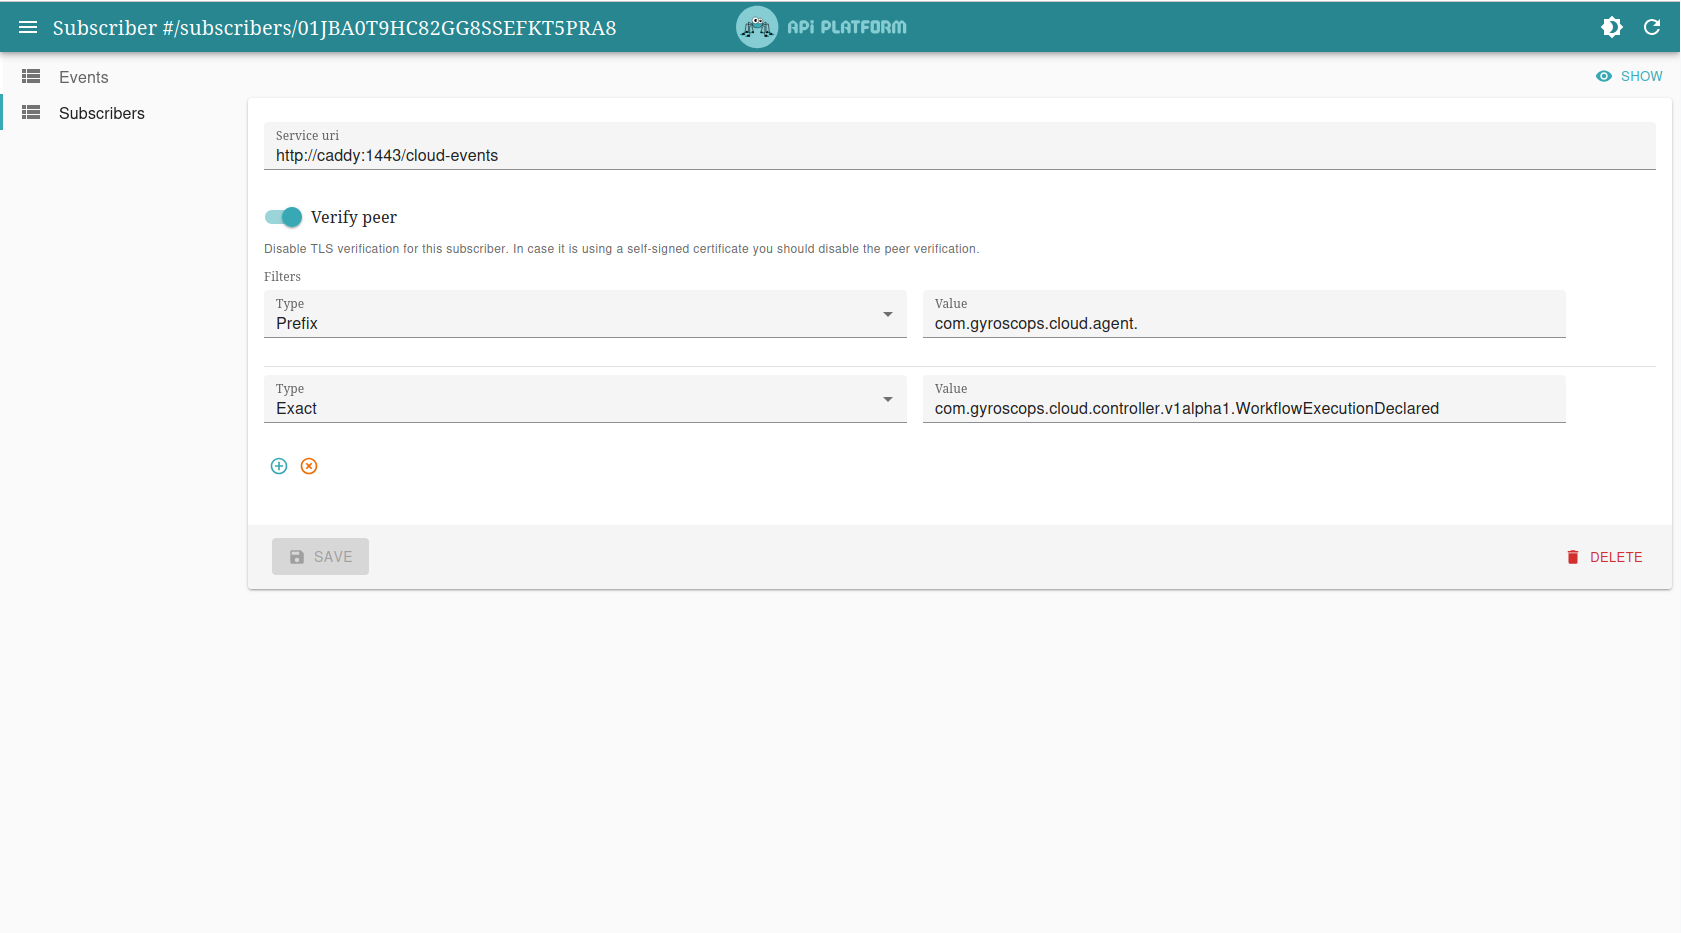
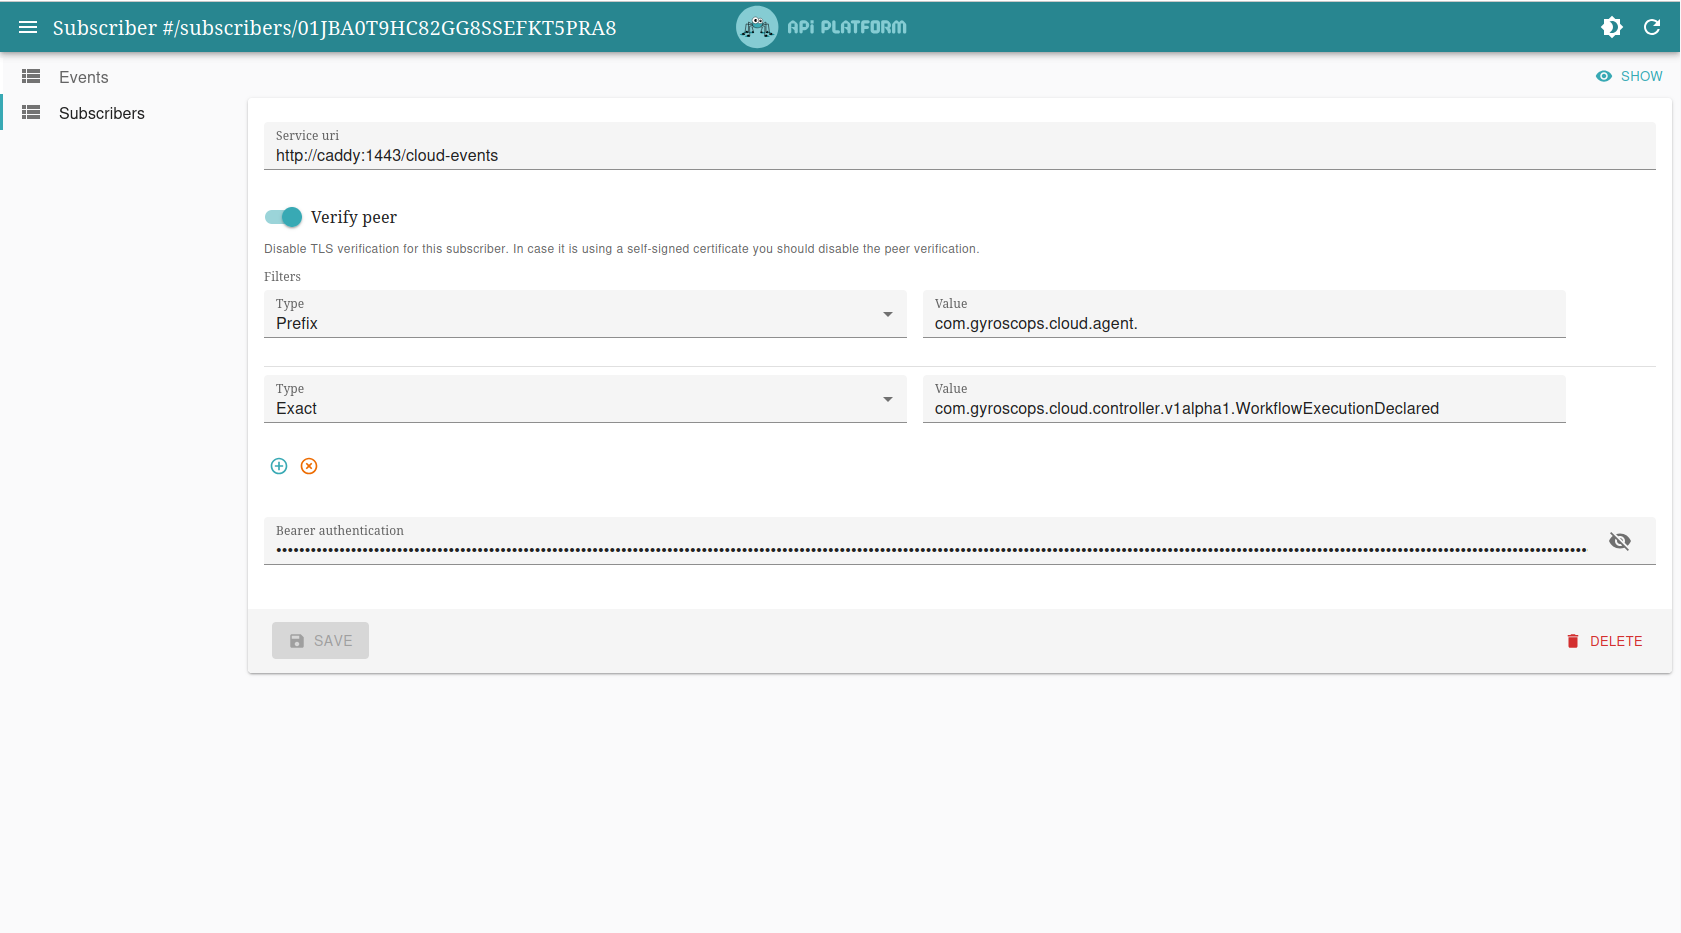
Added simple Broker feature

diff --git a/pwa/components/admin/subscribers/SubscribersEdit.tsx b/pwa/components/admin/subscribers/SubscribersEdit.tsx
@@ -1,4 +1,4 @@
-import {BooleanInput, Edit, SimpleForm, TextInput} from "react-admin";
+import {BooleanInput, Edit, PasswordInput, SimpleForm, TextInput} from "react-admin";
 import TriggerFilterInput from "./TriggerFilterInput";
 
 const SubscribersEdit = () => (
@@ -7,6 +7,7 @@ const SubscribersEdit = () => (
       <TextInput name="serviceUri" source="serviceUri" />
       <BooleanInput name="verifyPeer" source="verifyPeer" helperText="Disable TLS verification for this subscriber. In case it is using a self-signed certificate you should disable the peer verification." />
       <TriggerFilterInput name="filters" source="filters" />
+      <PasswordInput name="bearerAuthentication" source="bearerAuthentication" />
     </SimpleForm>
   </Edit>
 )

diff --git a/api/migrations/Version20241031171315.php b/api/migrations/Version20241031171315.php
@@ -1,0 +1,32 @@
+<?php
+
+declare(strict_types=1);
+
+namespace DoctrineMigrations;
+
+use Doctrine\DBAL\Schema\Schema;
+use Doctrine\Migrations\AbstractMigration;
+
+/**
+ * Auto-generated Migration: Please modify to your needs!
+ */
+final class Version20241031171315 extends AbstractMigration
+{
+    public function getDescription(): string
+    {
+        return '';
+    }
+
+    public function up(Schema $schema): void
+    {
+        // this up() migration is auto-generated, please modify it to your needs
+        $this->addSql('ALTER TABLE subscriber ALTER bearer_authentication TYPE VARCHAR(65535)');
+    }
+
+    public function down(Schema $schema): void
+    {
+        // this down() migration is auto-generated, please modify it to your needs
+        $this->addSql('CREATE SCHEMA public');
+        $this->addSql('ALTER TABLE subscriber ALTER bearer_authentication TYPE VARCHAR(255)');
+    }
+}

diff --git a/api/src/Entity/Subscriber.php b/api/src/Entity/Subscriber.php
@@ -66,7 +66,7 @@ class Subscriber
     /**
      * Bearer authentication to the CloudEvents sink
      */
-    #[ORM\Column(nullable: true, options: ['default' => null])]
+    #[ORM\Column(length: 65535, nullable: true, options: ['default' => null])]
     public ?string $bearerAuthentication;
 
     public function __construct(
